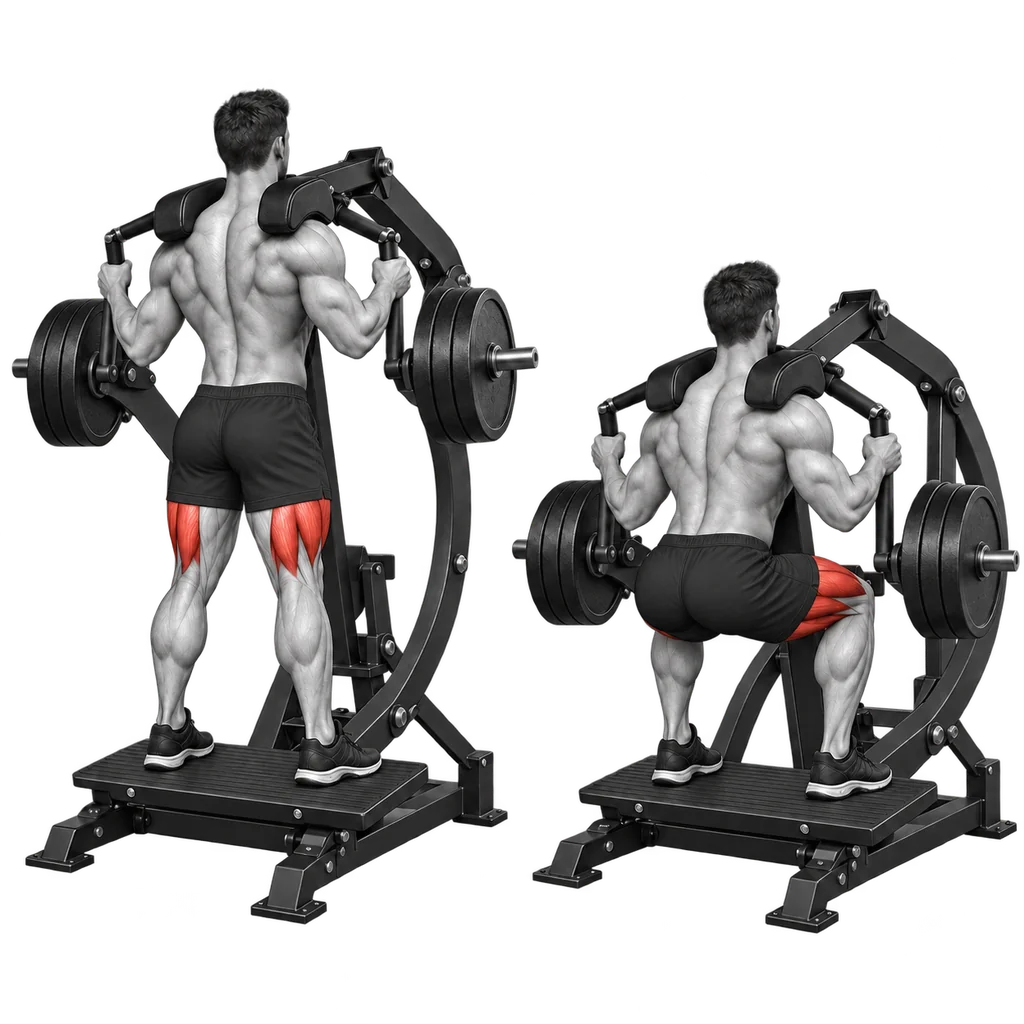
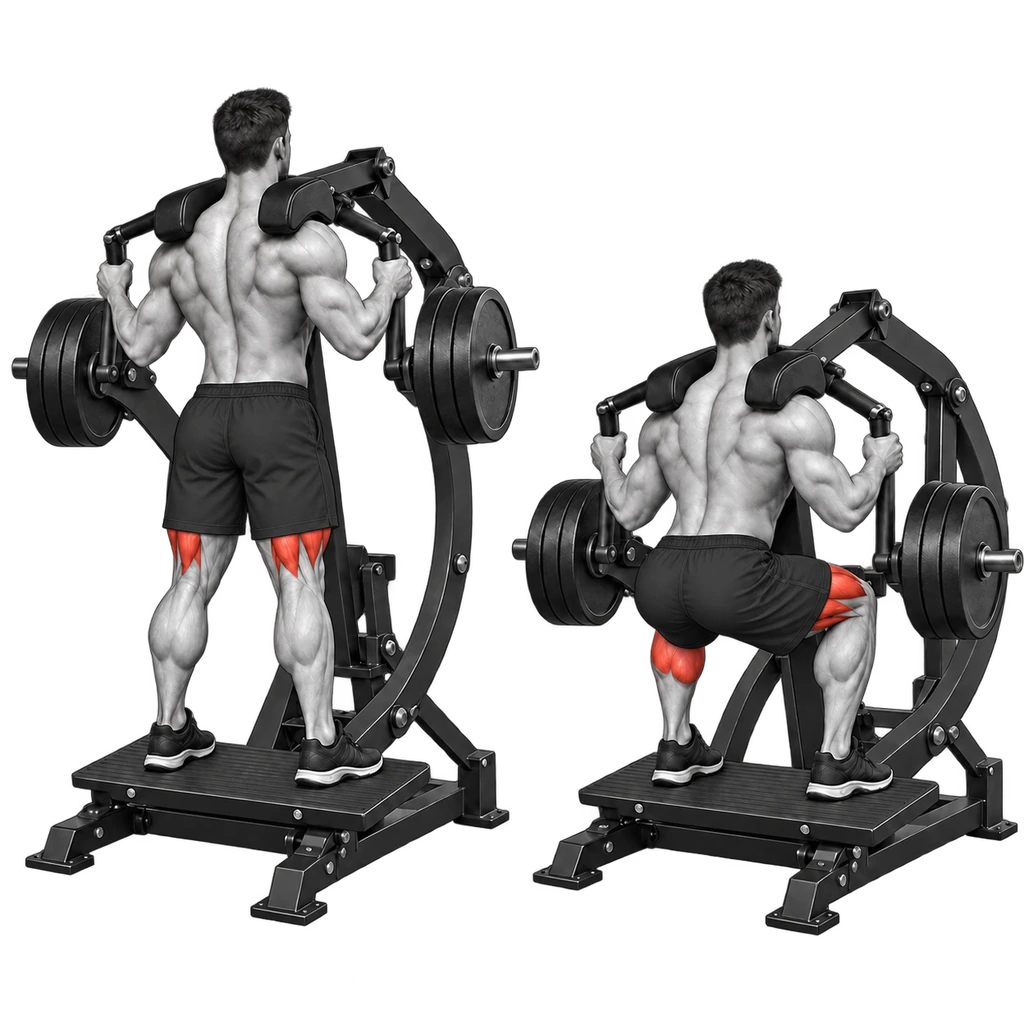
Improve V-Squat shorts coverage

diff --git a/docs/media-provenance.md b/docs/media-provenance.md
@@ -273,6 +273,16 @@ Three original AI-assisted illustrations added for Dumbbell Reverse Lunge, Cable
 - **Prompt summary:** Square two-phase grayscale standing machine hip thrust; adjustable guided frame and pelvic roller; neutral upright finish; opaque shorts with no red anatomy overlay on the covered area; transparent background; no text or logos.
 - **Source and rights:** Machine setup and hip-extension path were checked against Panatta's primary [Standing Hip Thrust](https://www.panattasport.com/en/freeweight-one/standing-hip-thrust/) product page and its [manufacturer demonstration](https://www.youtube.com/watch?v=vzwLvI3akIs). No manufacturer artwork was imported. The project dedicates any rights it holds in this original illustration under [CC0 1.0](https://creativecommons.org/publicdomain/zero/1.0/). [OpenAI Terms of Use](https://openai.com/policies/terms-of-use/) assign output to the user to the extent permitted by applicable law; outputs may not be unique, and no exclusivity is claimed. Generated media is not expert technique approval.
 - **Record:** [`standing-machine-hip-thrust.json`](../data/exercises/standing-machine-hip-thrust.json).
+
+## V-Squat shorts-coverage revision
+
[1 lines of base64/hex data omitted]
+- **Date and creator:** 2026-10-22; Open Exercise Atlas, using the built-in OpenAI image generator. The tool did not expose a model identifier.
+- **Method:** Edited the existing original V-Squat illustration, preserving its two poses, machine, grayscale rendering, transparent background and red thigh emphasis. The 1254 × 1254 transparent PNG output was resized to 1024 × 1024 and converted to WebP with Pillow/libwebp (quality 92, alpha retained). Both poses now use clearly opaque black shorts extending to mid-thigh, covering the glutes, hips and groin; highlights remain below the shorts.
+- **Prompt summary:** Preserve the exact two-panel V-Squat illustration and make the shorts unmistakably opaque and longer in both poses; fully cover glutes, pelvis and groin; no red highlighting on or through clothing; transparent background; no text.
+- **Source and rights:** This is an edit of Atlas's existing original AI-assisted V-Squat art; no third-party artwork was imported. The project dedicates any rights it holds in this original illustration under [CC0 1.0](https://creativecommons.org/publicdomain/zero/1.0/). [OpenAI Terms of Use](https://openai.com/policies/terms-of-use/) assign output to the user to the extent permitted by applicable law; outputs may not be unique, and no exclusivity is claimed. Generated media is not expert technique approval.
+- **Record:** [`v-squat.json`](../data/exercises/v-squat.json).
+
 ## Meadows Row illustration
 
[1 lines of base64/hex data omitted]

diff --git a/docs/pilots/major-muscle-gap-2026-10-22.md b/docs/pilots/major-muscle-gap-2026-10-22.md
@@ -4,7 +4,7 @@ A renewed post-push scan against manufacturer catalogs found two lower-body mach
 
 | Exercise | Record | Illustration | SHA-256 |
 | --- | --- | --- | --- |
[5 lines of base64/hex data omitted]
